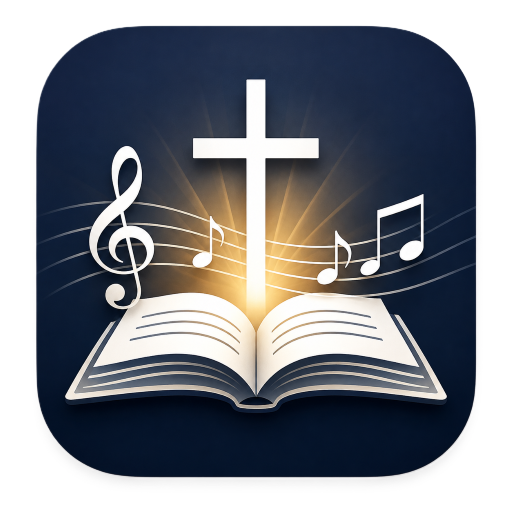
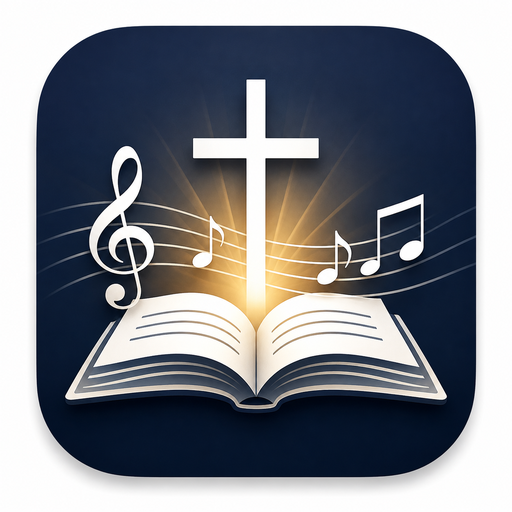
PWA updates

diff --git a/js/app.js b/js/app.js
@@ -16,7 +16,6 @@ const songMeta = document.getElementById("songMeta");
 const resourceActions = document.getElementById("resourceActions");
 const sharePrintButton = document.getElementById("sharePrintButton");
 const practiceButton = document.getElementById("practiceButton");
-const practiceHeader = document.getElementById("practiceHeader");
 const exitPracticeButton = document.getElementById("exitPracticeButton");
 
 const documentEmpty = document.getElementById("documentEmpty");
@@ -298,17 +297,20 @@ function openDocument(resource, button) {
   activeResource = resource;
 
   /*
+    Practice availability depends ONLY on whether this song has audio.
+    resetDocumentViewer() hides action buttons, so restore Practice here
+    after every document selection.
+  */
+  const hasAudio = (activeSong?.audio || []).length > 0;
+  practiceButton.classList.toggle("hidden", !hasAudio);
+
+  /*
     The normal song landing page is now the document viewing / printing area.
     Practice mode uses the same rendered PDF, but strips away the normal
     library controls and exposes the large rehearsal player.
   */
   if (resource.type === "pdf") {
     sharePrintButton.classList.remove("hidden");
-
-    if ((activeSong?.audio || []).length) {
-      practiceButton.classList.remove("hidden");
-    }
-
     renderPdfPages(resource);
     return;
   }
@@ -429,14 +431,32 @@ function setAudio(song) {
 
 
 function enterPracticeMode() {
-  if (!activeSong || !activeResource || activeResource.type !== "pdf") return;
-  if (!(activeSong.audio || []).length) return;
+  if (!activeSong || !(activeSong.audio || []).length) return;
 
   document.body.classList.add("practice-mode");
   songView.classList.add("practice-mode-active");
   songView.classList.add("has-audio");
 
-  practiceHeader.classList.remove("hidden");
+  /*
+    Audio-only songs are valid. If there is no PDF, hide the normal
+    "No document selected" message so Practice remains a clean screen.
+  */
+  const hasPdf =
+    (activeSong.documents || []).some(
+      (resource) => resource.type === "pdf"
+    );
+
+  document.body.classList.toggle(
+    "practice-audio-only",
+    !hasPdf
+  );
+
+  if (!hasPdf) {
+    documentEmpty.classList.add("hidden");
+    pdfStatus.classList.add("hidden");
+    pdfViewer.classList.add("hidden");
+    wordNotice.classList.add("hidden");
+  }
 
   audioDock.classList.remove("hidden");
 
@@ -449,12 +469,28 @@ function enterPracticeMode() {
 function exitPracticeMode() {
   audioPlayer.pause();
 
-  document.body.classList.remove("practice-mode");
-  songView.classList.remove("practice-mode-active");
-  songView.classList.remove("has-audio");
+  document.body.classList.remove(
+    "practice-mode",
+    "practice-audio-only"
+  );
 
-  practiceHeader.classList.add("hidden");
+  songView.classList.remove(
+    "practice-mode-active",
+    "has-audio"
+  );
+
   audioDock.classList.add("hidden");
+
+  /*
+    Restore the correct normal landing state when leaving audio-only
+    practice mode.
+  */
+  if (
+    activeSong &&
+    !(activeSong.documents || []).length
+  ) {
+    documentEmpty.classList.remove("hidden");
+  }
 
   window.scrollTo({
     top: 0,
@@ -477,6 +513,13 @@ function populateSongView(song) {
   resourceActions.innerHTML = "";
 
   const documents = song.documents || [];
+  const hasAudio = (song.audio || []).length > 0;
+
+  /*
+    Practice is an AUDIO feature. It remains available even when a song
+    has no PDF or other document.
+  */
+  practiceButton.classList.toggle("hidden", !hasAudio);
 
   resourceActions.classList.toggle(
     "single-resource",
@@ -503,6 +546,10 @@ function populateSongView(song) {
 
   if (!documents.length) {
     resetDocumentViewer();
+
+    if (hasAudio) {
+      practiceButton.classList.remove("hidden");
+    }
   }
 
   setAudio(song);

diff --git a/css/style.css b/css/style.css
@@ -1632,3 +1632,152 @@ body:not(.practice-mode) .document-panel {
     font-size: 0.72rem;
   }
 }
+
+
+/* ==========================================================
+   PRACTICE MODE V4
+   Audio-only songs + Quit button inside player
+   ========================================================== */
+
+/*
+  The old floating practice header is no longer used.
+*/
+.practice-header {
+  display: none !important;
+}
+
+/*
+  Player's top row: song info on the left, Quit Practice on the right.
+*/
+.audio-dock-info-row {
+  display: flex;
+  align-items: center;
+  justify-content: space-between;
+  gap: 12px;
+  min-width: 0;
+}
+
+.audio-dock-info-row .audio-dock-info {
+  flex: 1 1 auto;
+  min-width: 0;
+}
+
+.audio-dock .quit-practice-button {
+  flex: 0 0 auto;
+
+  min-height: 38px;
+  padding: 0 12px;
+
+  border: 1px solid var(--border-strong);
+  border-radius: 10px;
+
+  background: var(--surface-2);
+  color: var(--text-2);
+
+  box-shadow: none;
+
+  font-size: 0.72rem;
+  font-weight: 700;
+
+  cursor: pointer;
+}
+
+.audio-dock .quit-practice-button:hover,
+.audio-dock .quit-practice-button:focus-visible {
+  border-color: var(--accent-border);
+  color: var(--accent);
+}
+
+.audio-dock .quit-practice-button:active {
+  transform: scale(0.97);
+}
+
+/*
+  Practice no longer reserves any top space for a header.
+  The PDF starts at the very top of the display.
+*/
+body.practice-mode .document-panel {
+  min-height:
+    calc(
+      100dvh
+      - var(--audio-height)
+      - env(safe-area-inset-bottom)
+    );
+}
+
+/*
+  Audio-only practice mode:
+  deliberately clean empty stage above the fixed player.
+*/
+body.practice-mode.practice-audio-only .document-panel {
+  min-height:
+    calc(
+      100dvh
+      - var(--audio-height)
+      - env(safe-area-inset-bottom)
+    );
+
+  background: #0d1117;
+}
+
+body.practice-mode.practice-audio-only .document-empty,
+body.practice-mode.practice-audio-only .pdf-status,
+body.practice-mode.practice-audio-only .pdf-viewer,
+body.practice-mode.practice-audio-only .word-notice {
+  display: none !important;
+}
+
+/*
+  The audio dock now has an info/quit row plus player controls.
+*/
+body.practice-mode .audio-dock {
+  grid-template-columns: 1fr !important;
+  gap: 6px;
+}
+
+@media (min-width: 651px) {
+  body.practice-mode .audio-dock {
+    padding:
+      10px
+      18px
+      calc(10px + env(safe-area-inset-bottom));
+  }
+
+  .audio-dock-info-row {
+    max-width: 900px;
+    width: 100%;
+    margin: 0 auto;
+  }
+
+  .practice-player {
+    max-width: 900px;
+    width: 100%;
+    margin: 0 auto;
+  }
+}
+
+@media (max-width: 650px) {
+  .audio-dock-info-row {
+    gap: 8px;
+  }
+
+  .audio-dock-info-row .audio-dock-info {
+    text-align: left;
+  }
+
+  .audio-dock .quit-practice-button {
+    min-height: 36px;
+    padding: 0 10px;
+    font-size: 0.68rem;
+  }
+
+  body.practice-mode .document-panel,
+  body.practice-mode.practice-audio-only .document-panel {
+    min-height:
+      calc(
+        100dvh
+        - var(--audio-height)
+        - env(safe-area-inset-bottom)
+      );
+  }
+}

diff --git a/index.html b/index.html
@@ -9,6 +9,12 @@
   <title>Church Music Library</title>
 
   <link rel="manifest" href="manifest.webmanifest" />
+  <link rel="apple-touch-icon" sizes="180x180" href="icons/apple-touch-icon.png" />
+  <link rel="icon" type="image/png" sizes="192x192" href="icons/icon-192.png" />
+
+  <meta name="apple-mobile-web-app-capable" content="yes" />
+  <meta name="apple-mobile-web-app-title" content="Music Library" />
+  <meta name="apple-mobile-web-app-status-bar-style" content="black-translucent" />
   <link rel="stylesheet" href="css/style.css" />
 </head>
 
@@ -92,12 +98,6 @@
 
       <div id="resourceActions" class="resource-actions"></div>
 
-      <div id="practiceHeader" class="practice-header hidden">
-        <button id="exitPracticeButton" class="quit-practice-button" type="button">
-          Quit Practice
-        </button>
-      </div>
-
       <section id="documentPanel" class="document-panel">
         <div id="documentEmpty" class="document-empty">
           <h3>No document selected</h3>
@@ -127,9 +127,19 @@
   </main>
 
   <aside id="audioDock" class="audio-dock hidden" aria-label="Practice audio player">
-    <div class="audio-dock-info">
-      <span class="audio-label">Practice Audio</span>
-      <strong id="audioTrackTitle"></strong>
+    <div class="audio-dock-info-row">
+      <div class="audio-dock-info">
+        <span class="audio-label">Practice Audio</span>
+        <strong id="audioTrackTitle"></strong>
+      </div>
+
+      <button
+        id="exitPracticeButton"
+        class="quit-practice-button"
+        type="button"
+      >
+        Quit Practice
+      </button>
     </div>
 
     <div class="practice-player">
